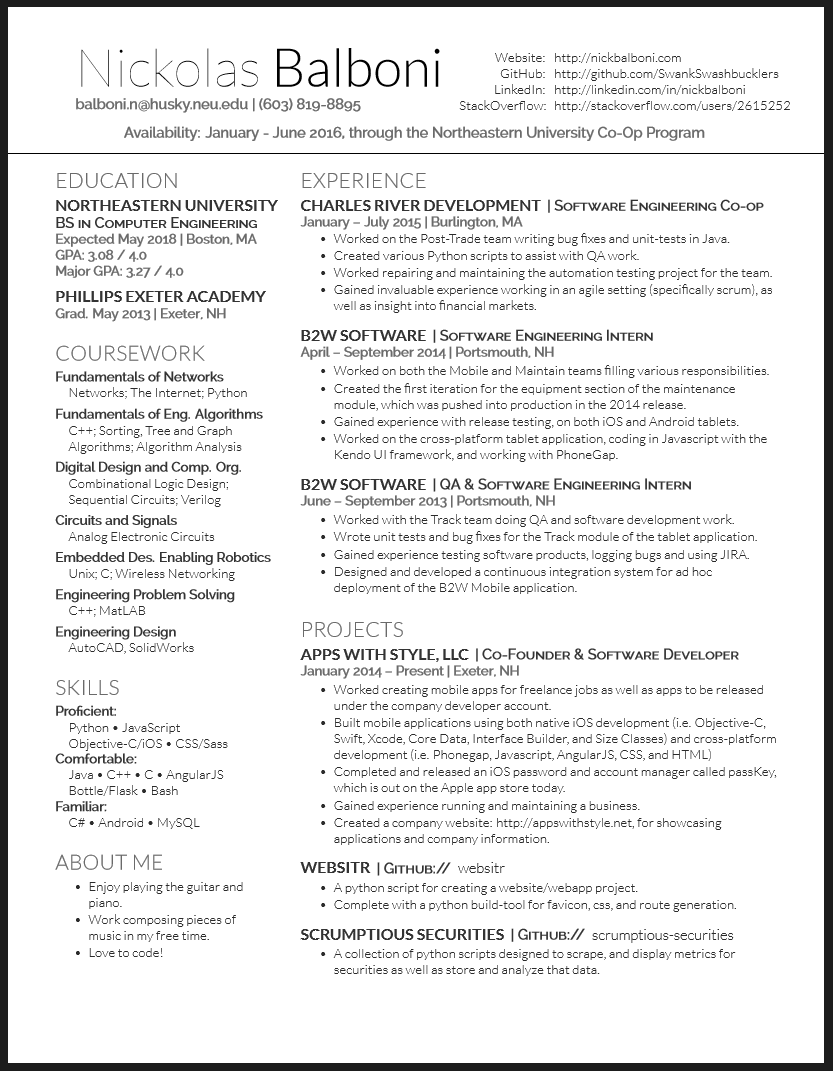
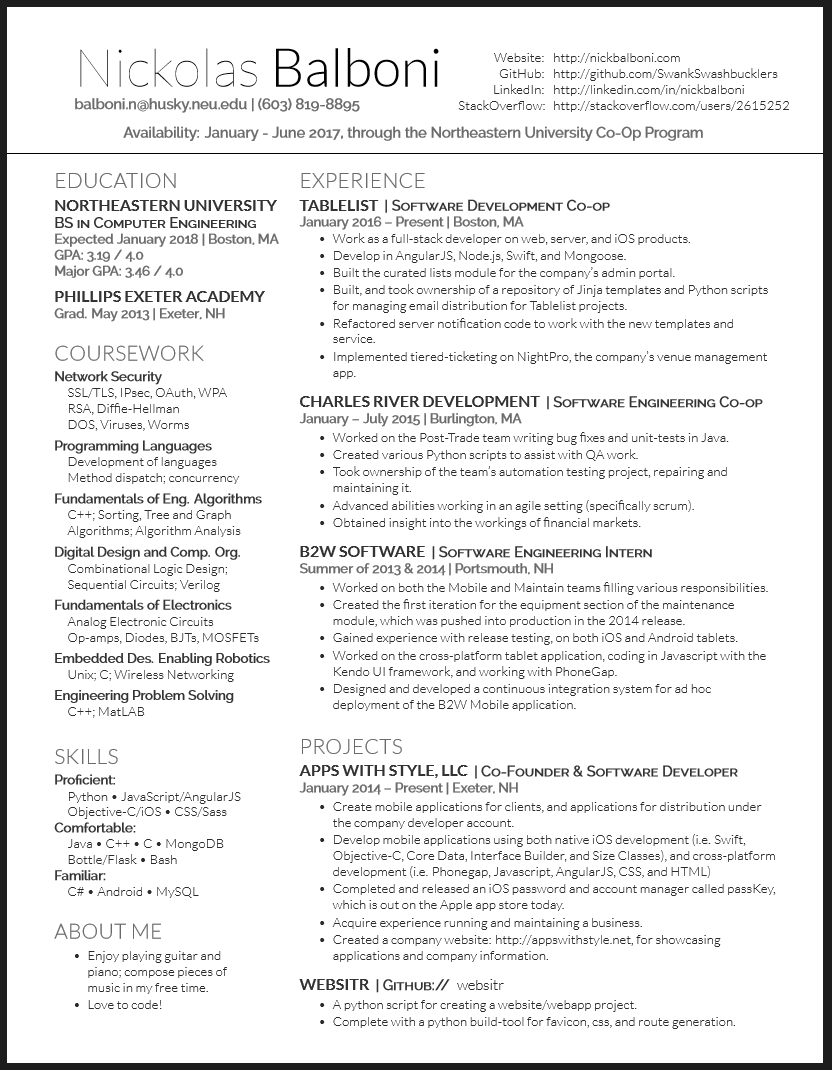
Finalized 2016 version

Changed region(s): [[0.0625, 0.0308, 0.9375, 0.9561]]

diff --git a/resume/resume.tex b/resume/resume.tex
@@ -70,7 +70,7 @@
 
 \section{Coursework}
 \custsubhead{Network Security}
-\hspace{8pt} SSL/TLS, IPse, OAuth, WPA \\
+\hspace{8pt} SSL/TLS, IPsec, OAuth, WPA \\
 \hspace{8pt} RSA, Diffie-Hellman \\
 \hspace{8pt} DOS, Viruses, Worms \\
 \vspace{4pt}
@@ -86,7 +86,7 @@
 \hspace{8pt} Combinational Logic Design; \\
 \hspace{8pt} Sequential Circuits; Verilog \\
 \vspace{4pt}
-\custsubhead{Fundementals of Electronics}
+\custsubhead{Fundamentals of Electronics}
 \hspace{8pt} Analog Electronic Circuits \\
 \hspace{8pt} Op-amps, Diodes, BJTs, MOSFETs \\
 \vspace{4pt}
